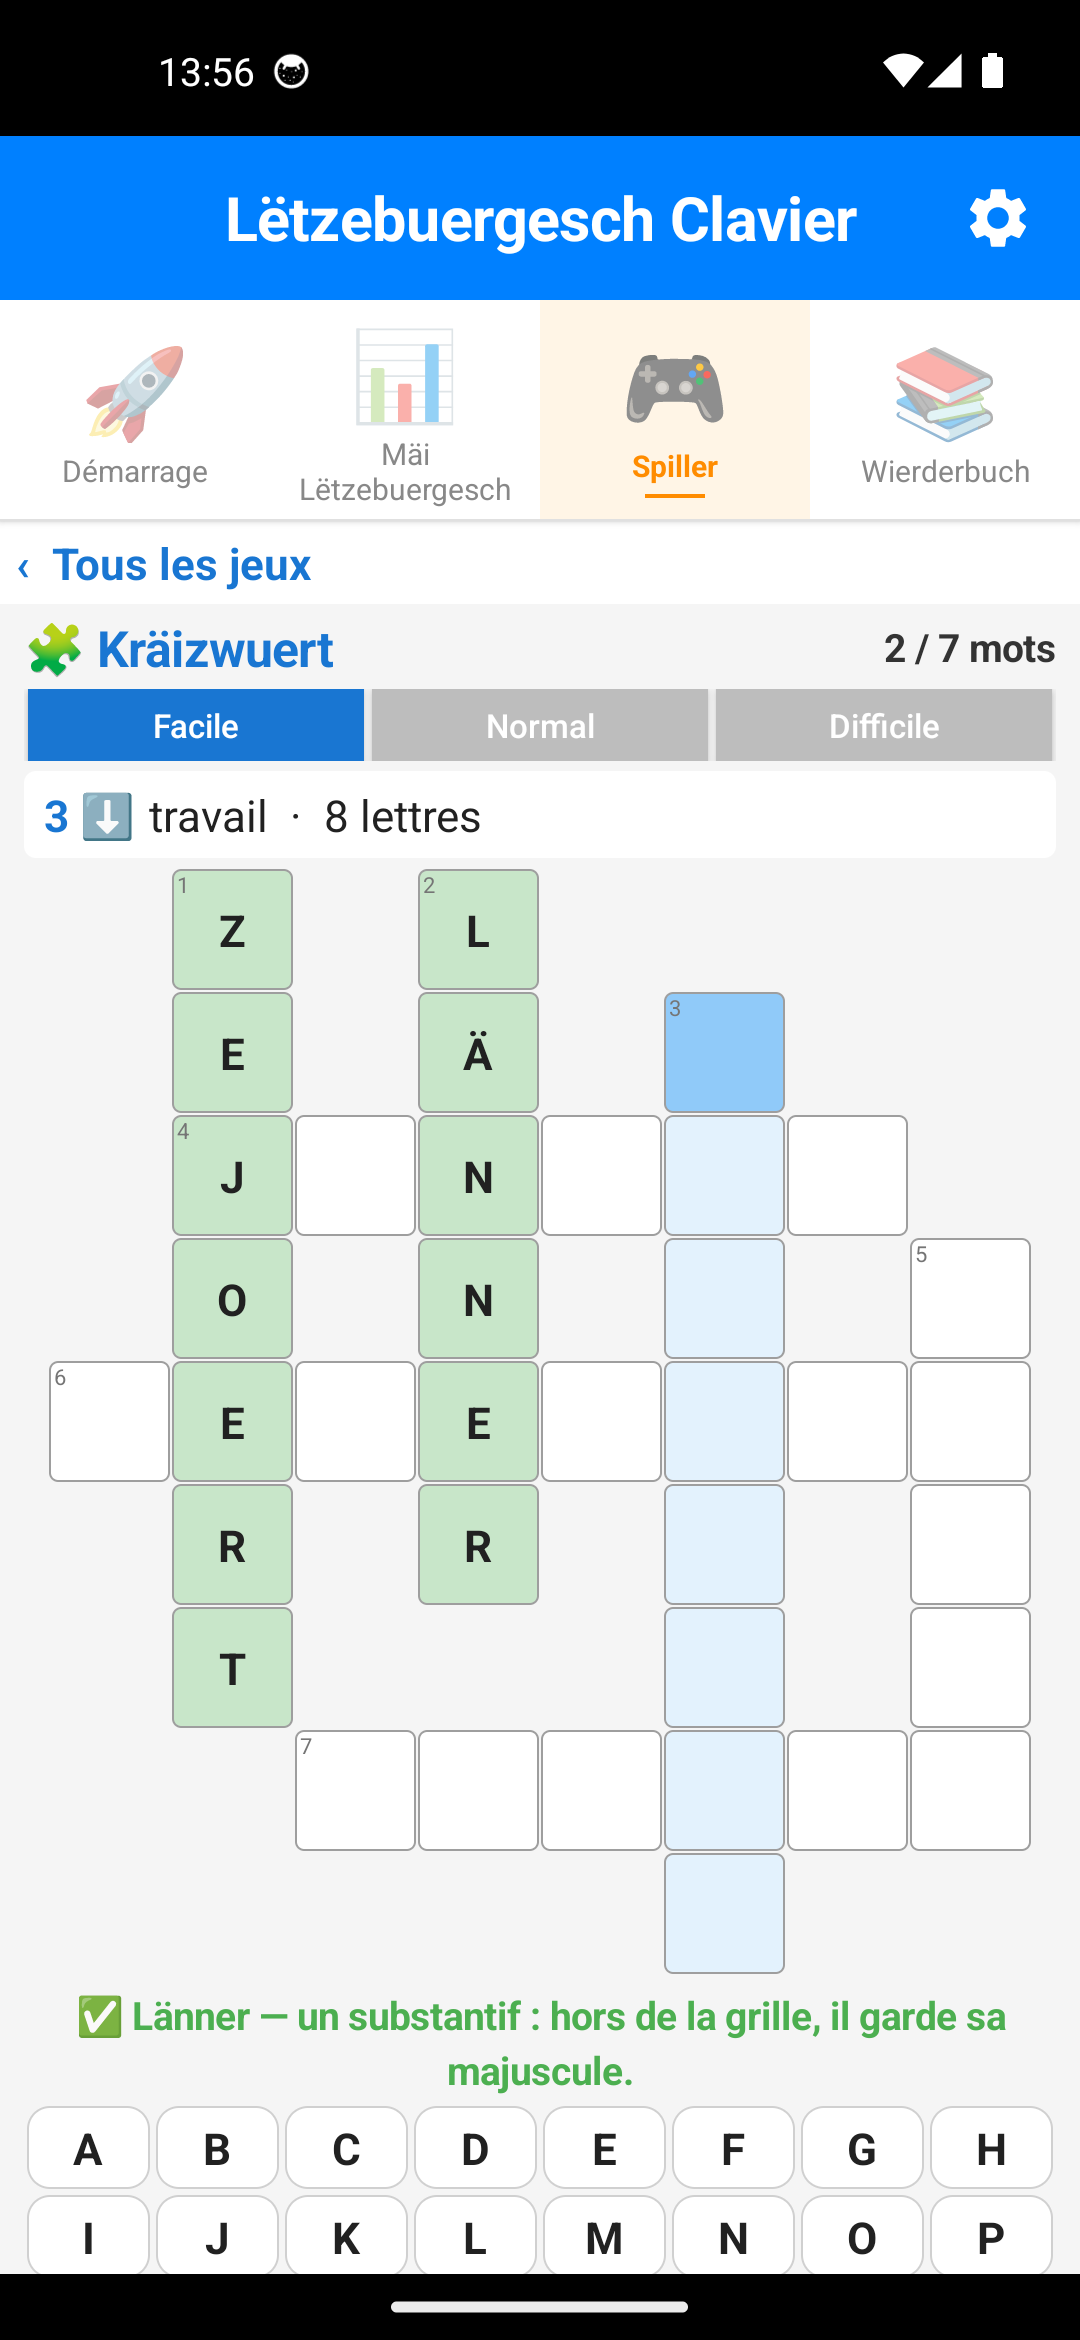
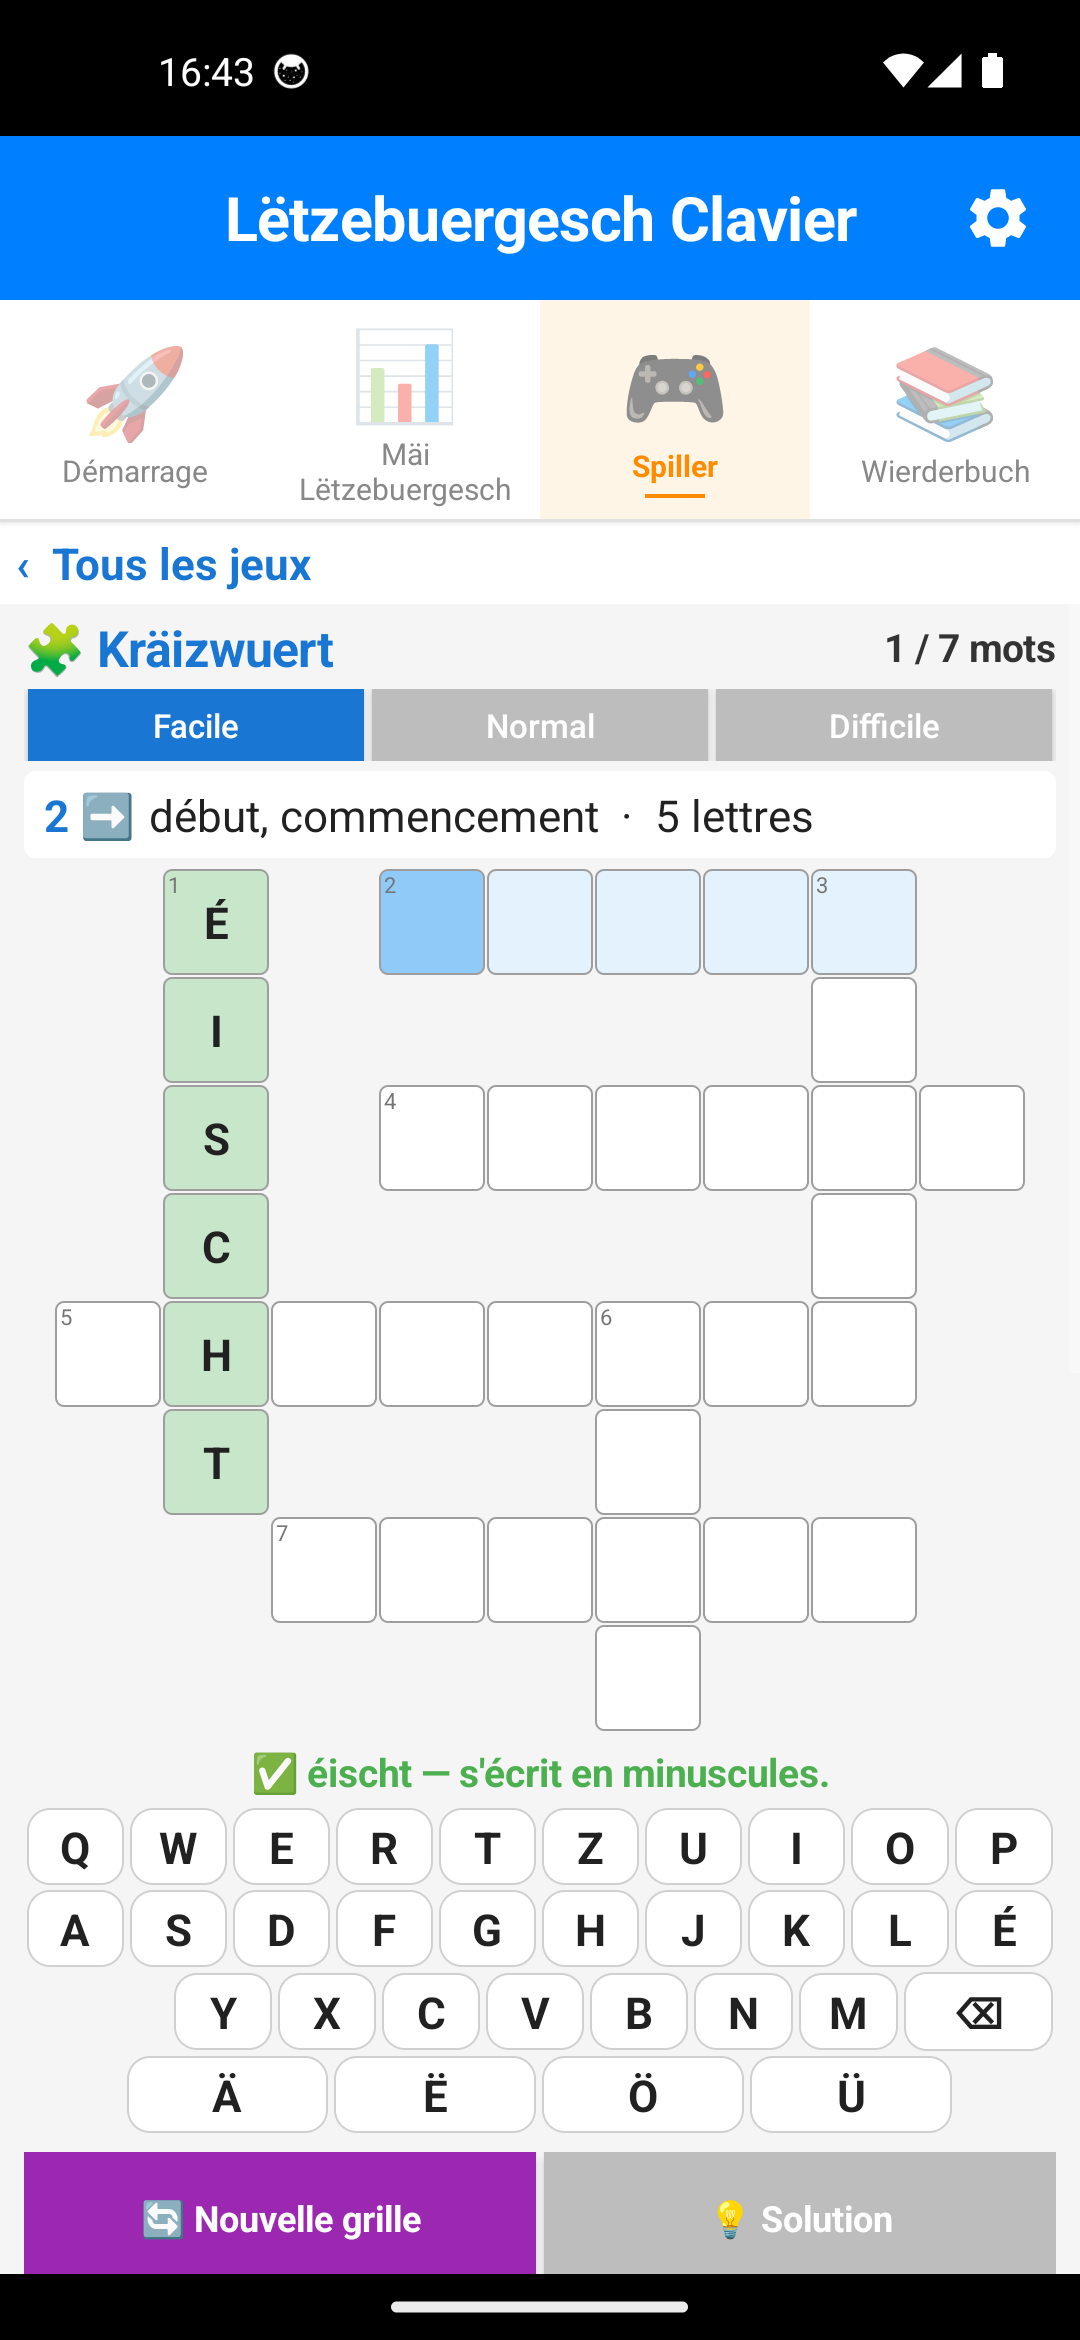
chore(release): version 20.1.0
La capture du jeu sur la page nouveautés montrait le pavé alphabétique, qui
n'existe plus : une image d'une interface qui n'est pas l'interface vaut
moins que pas d'image. La 20.0.0 reçoit une capture du jeu en cours, la
20.1.0 une du niveau Difficile où la grille, le pavé et les boutons tiennent
ensemble à l'écran — ce qui est justement ce que cette version corrige.

Claude-Session: https://claude.ai/code/session_01VLsMG5gZcxQfZifNV6wA6H

diff --git a/android_keyboard/CHANGELOG.md b/android_keyboard/CHANGELOG.md
@@ -9,6 +9,30 @@ et ce projet adhère au [Semantic Versioning](https://semver.org/spec/v2.0.0.htm
 > est issu. Les entrées antérieures à la 10.9.2 luxembourgeoise décrivent
 > l'évolution de cette base commune, côté créole.
 
+## [20.1.0] - 2026-09-06
+
+### 🎨 Modifié
+
+- **Le pavé de Kräizwuert reprend la disposition du clavier.** Il était
+  alphabétique, et c'était une erreur : cette application existe pour qu'on
+  écrive le luxembourgeois sur son clavier à elle, en QWERTZ. Chercher les
+  lettres dans un ordre qu'on ne retrouvera nulle part ensuite n'apprend rien ;
+  aux mêmes places que sur le clavier, le jeu travaille les positions de doigts
+  dont on se sert en écrivant un message, et il en devient l'entraînement. Les
+  trois rangées de lettres sont identiques à celles du clavier, `é` compris, et
+  l'effacement ferme la troisième rangée là où le pouce le cherche. Une seule
+  infidélité, volontaire : `ö` et `ü` n'existent sur le clavier que derrière un
+  appui long, et `ä`/`ë` vivent autour de la barre d'espace — les reproduire
+  ainsi cacherait deux des cinq voyelles infléchies dont le jeu a besoin. La
+  rangée de la barre d'espace est donc remplacée par `Ä Ë Ö Ü`, en touches
+  larges.
+- **La grille cède quelques pixels au pavé plutôt que l'inverse.** Une grille
+  haute poussait le pavé hors de l'écran en commençant par sa rangée
+  d'accents, c'est-à-dire par les cinq touches pour lesquelles ce pavé existe.
+  La taille des cases est maintenant bornée par la hauteur disponible autant
+  que par la largeur : grille, pavé et boutons tiennent ensemble à l'écran,
+  jusqu'à la grille de onze colonnes du niveau Difficile.
+
 ## [20.0.0] - 2026-09-06
 
 > Le saut de 12.1 à 20.0 est un repère, pas une rupture : il remet le numéro
